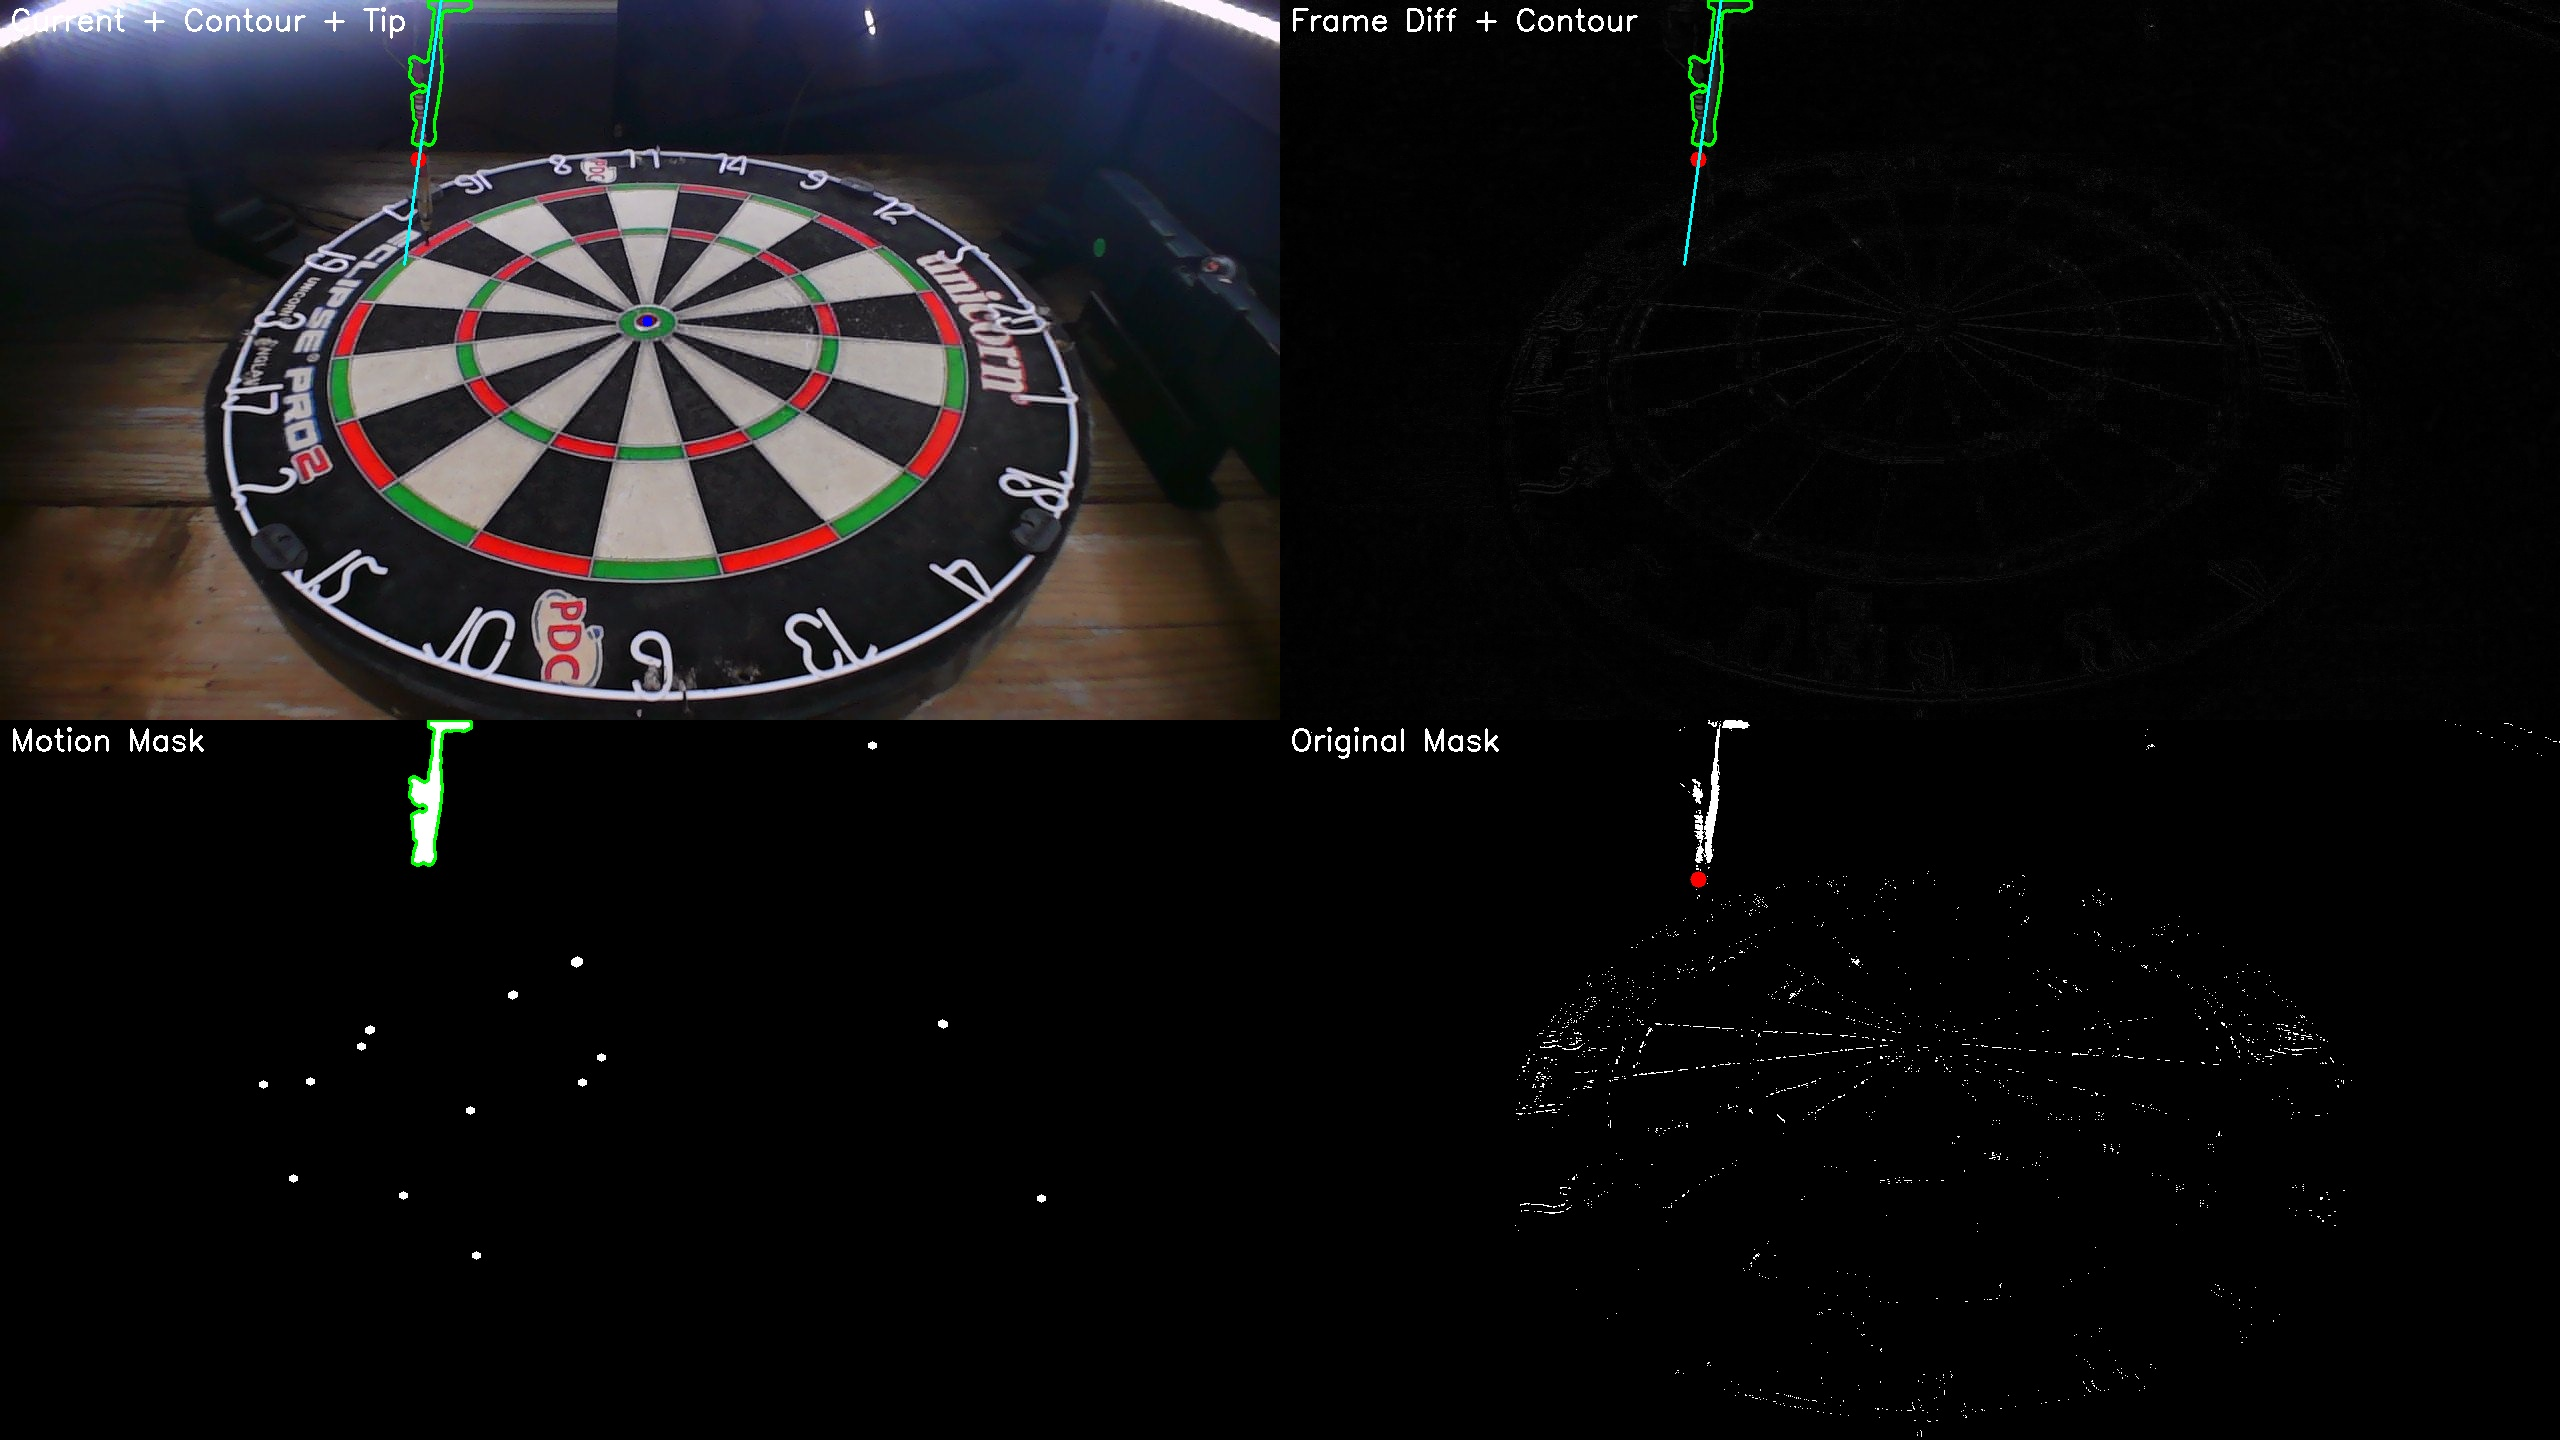
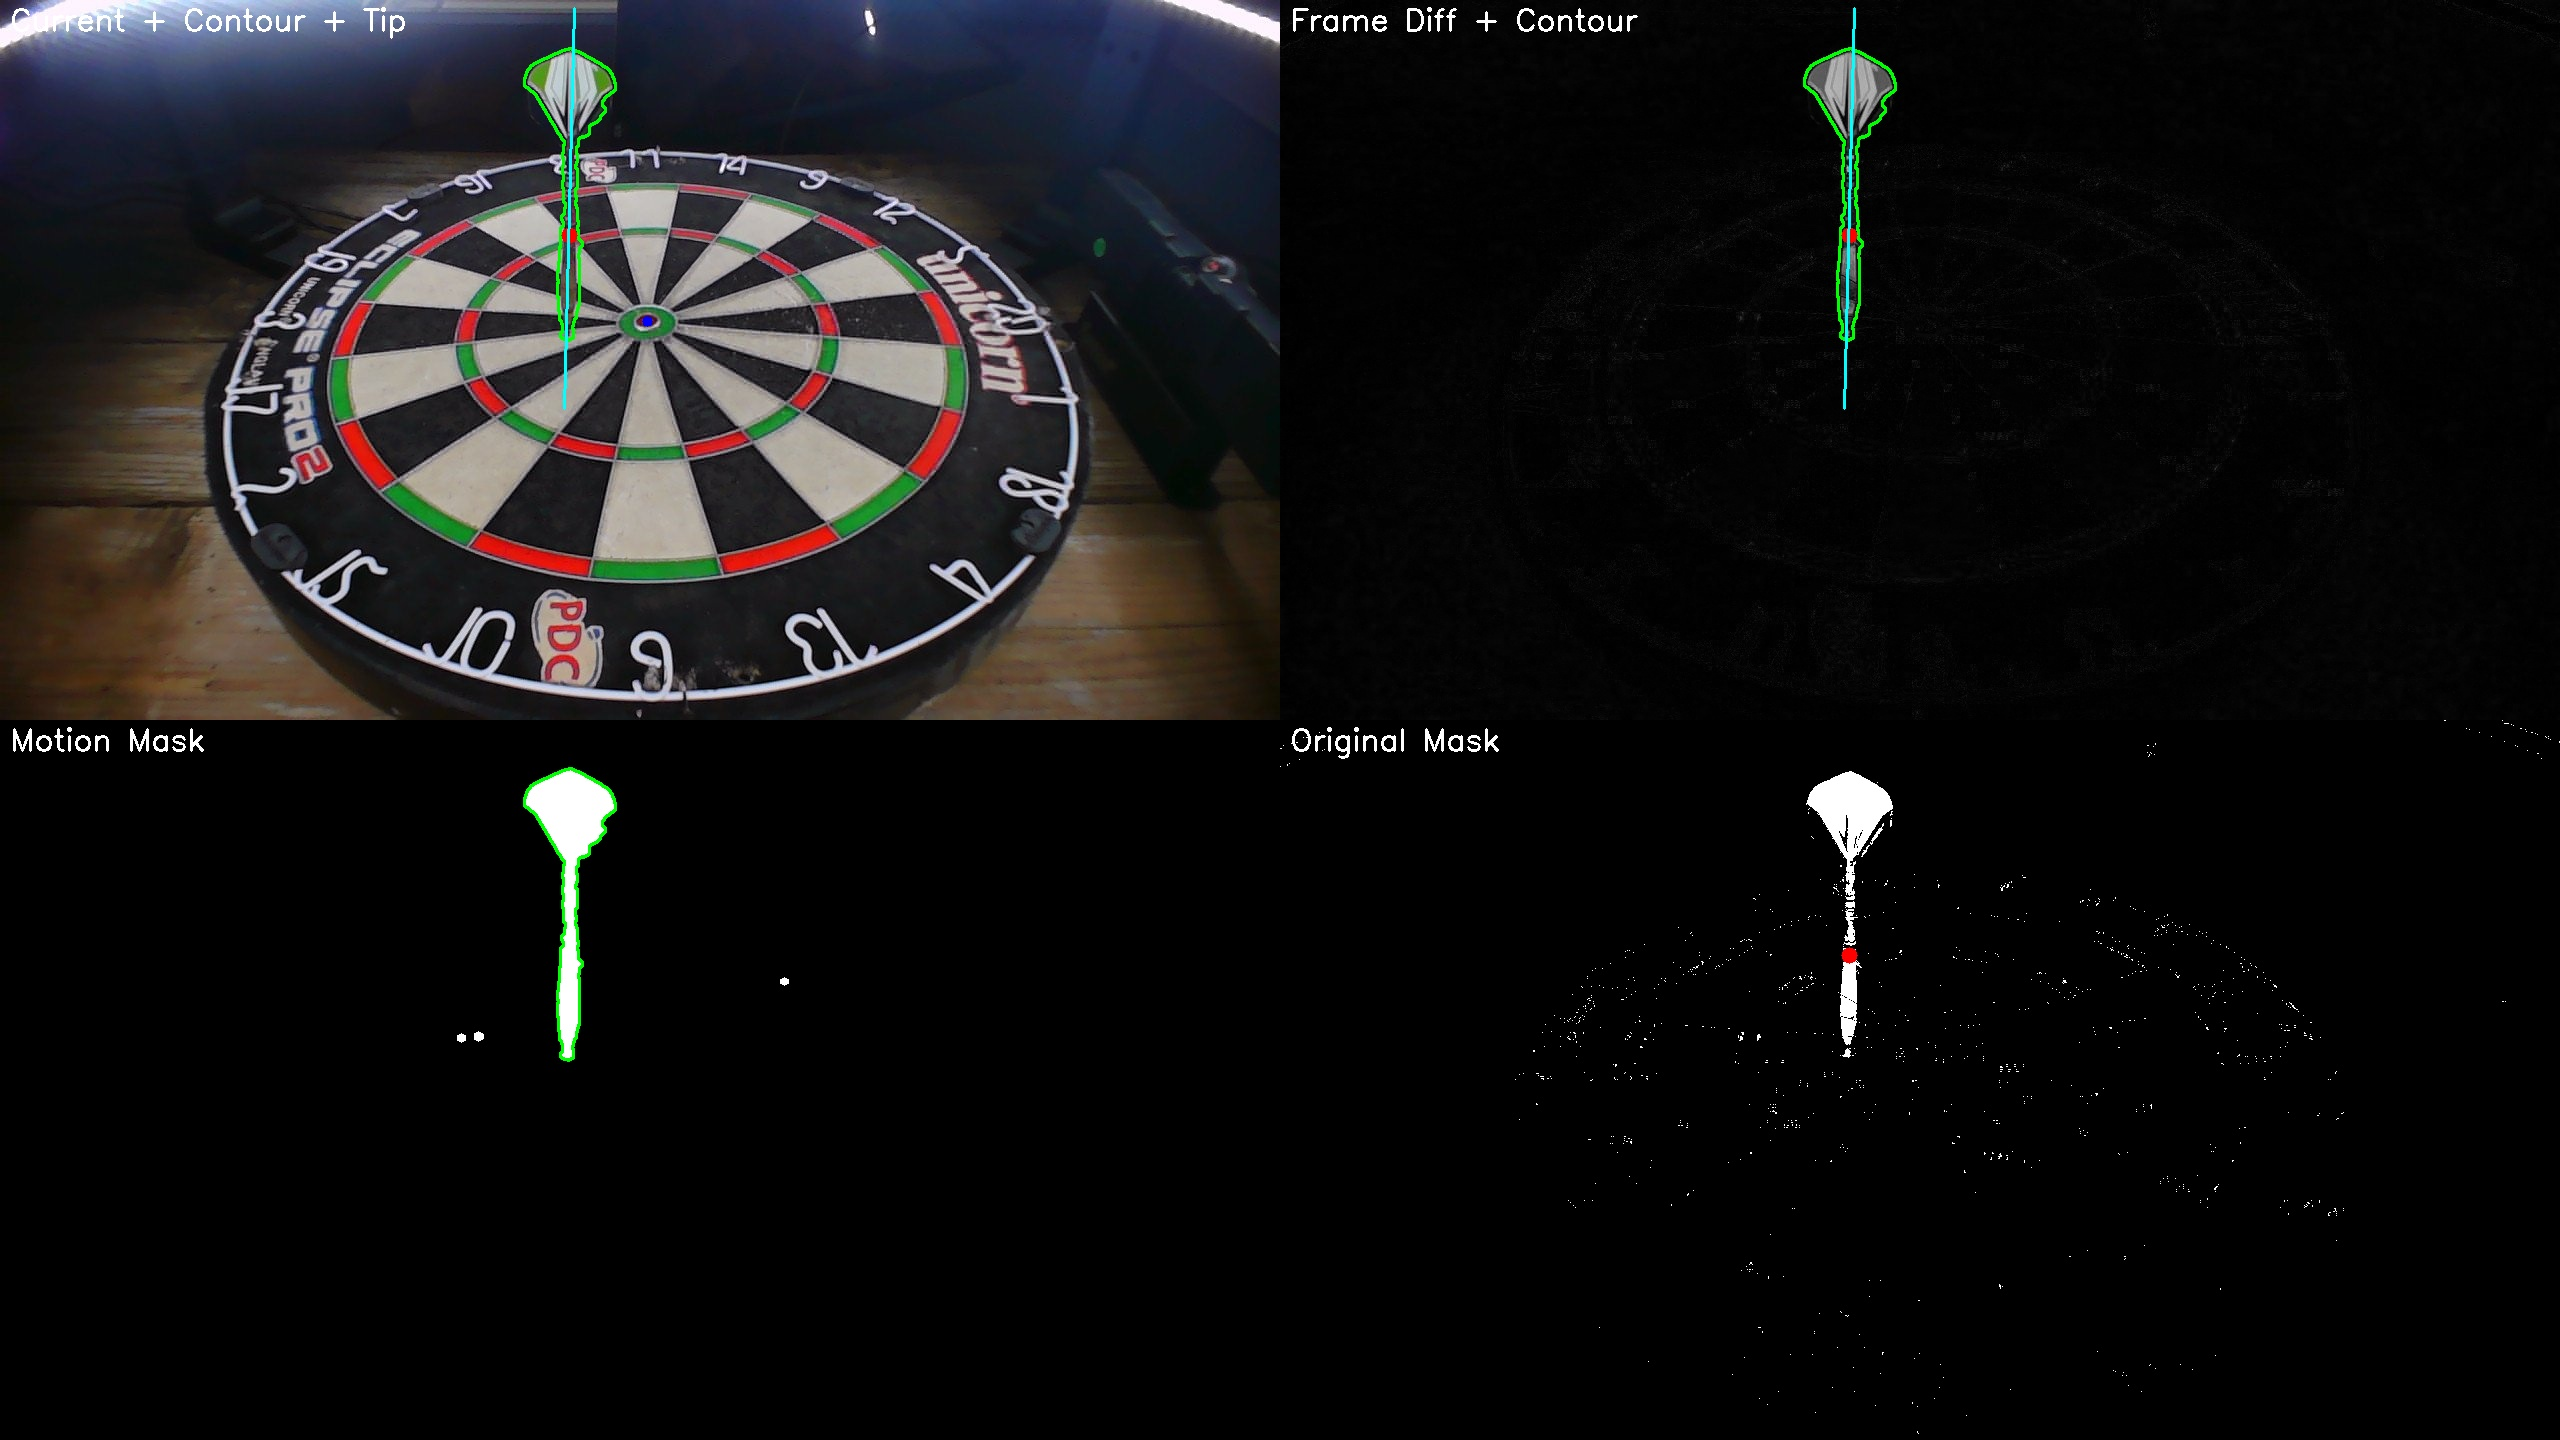
fix: increase threshold to 35, add noise filtering

diff --git a/app/core/skeleton_detection.py b/app/core/skeleton_detection.py
@@ -320,7 +320,7 @@ def find_tip_endpoint(endpoints, line_params, board_center=None):
 
 
 def get_adaptive_motion_mask(current_frame, previous_frame, camera_id=None, 
-                             fixed_threshold=20, use_background_model=True):
+                             fixed_threshold=35, use_background_model=True):
     """
     Get motion mask using either fixed threshold or adaptive background model.
     
@@ -353,6 +353,11 @@ def get_adaptive_motion_mask(current_frame, previous_frame, camera_id=None,
     
     # Fallback: fixed threshold
     _, motion_mask = cv2.threshold(gray_diff, fixed_threshold, 255, cv2.THRESH_BINARY)
+    
+    # Remove small noise blobs
+    kernel = cv2.getStructuringElement(cv2.MORPH_ELLIPSE, (3, 3))
+    motion_mask = cv2.morphologyEx(motion_mask, cv2.MORPH_OPEN, kernel)
+    
     return gray_diff, motion_mask
 
 
@@ -394,7 +399,7 @@ def detect_dart_skeleton(
     gray_diff, motion_mask_raw = get_adaptive_motion_mask(
         current_frame, previous_frame, 
         camera_id=camera_id,
-        fixed_threshold=20,
+        fixed_threshold=35,
         use_background_model=use_adaptive_threshold
     )
     
@@ -522,7 +527,7 @@ def detect_dart_hough(
     gray_diff, motion_mask_raw = get_adaptive_motion_mask(
         current_frame, previous_frame,
         camera_id=camera_id,
-        fixed_threshold=20,
+        fixed_threshold=35,
         use_background_model=use_adaptive_threshold
     )
     original_mask = motion_mask_raw.copy()
